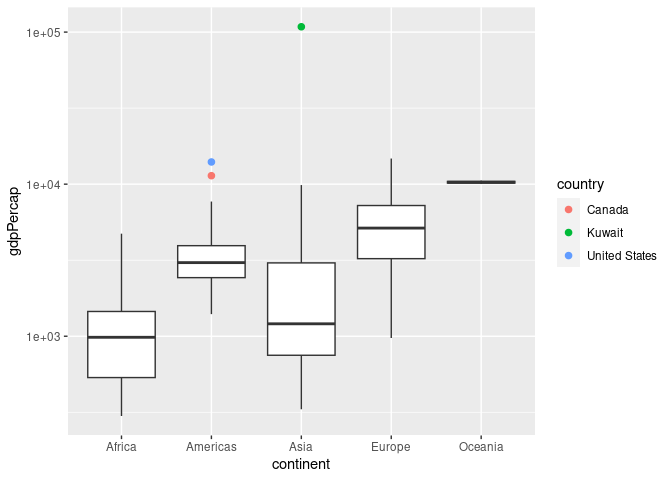
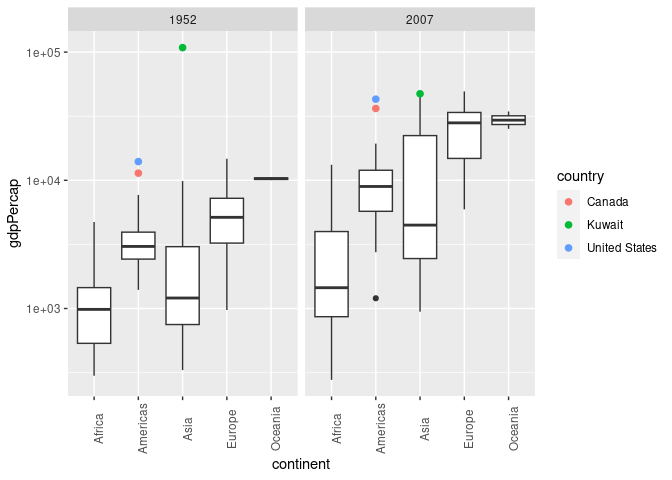
finished revisions of assignment 4

diff --git a/challenges/c04-gapminder-assignment.md b/challenges/c04-gapminder-assignment.md
@@ -211,10 +211,10 @@ gapminder %>%
 
 - The dataset states that the median GDPs for each continent go in the
   following order: Africa, Asia, the Americas, Europe, and Oceania.
-- Because we used a boxplot, we can see (roughly) the amount of
-  variation in these datasets: Asia seems to have GDPs that span the
-  widest range, including an outlier that is an order of magnitude ahead
-  of most other continents
+- Because we used a boxplot, we can see the amount of variation in these
+  datasets: Asia seems to have GDPs that span the widest range,
+  including an outlier that is an order of magnitude ahead of most other
+  continents
 - Oceania has barely any variation at all in its data, indicating either
   very homogenous or very little data.
 
@@ -310,23 +310,38 @@ variables; think about using different aesthetics or facets.
 
 ``` r
 ## TASK: Create a visual of gdpPercap vs continent
+
 gapminder %>%
-  filter(year == year_min) %>%
-  ggplot(aes(x = continent, y = gdpPercap))+
-  geom_boxplot() + 
+  filter(year == year_min | year == year_max) %>%
+  ggplot(aes(x = continent, y = gdpPercap)) +
+  geom_boxplot() +
   geom_point(
     data = . %>% filter(country %in% c("Kuwait", "United States", "Canada")),
     mapping = aes(color = country),
     size = 2
-  ) + 
-  scale_y_log10()
+  ) +
+  scale_y_log10() +
+  facet_wrap(~ year, nrow = 1) + 
+  theme(axis.text.x = element_text(angle = 90))
 ```
 
 ![](c04-gapminder-assignment_files/figure-gfm/q4-task-1.png)<!-- -->
 
 **Observations**:
 
-- Write your observations here
+- We can see here that the GDP per capita of the world as a whole has
+  appeared to gone up; every line’s median is higher than where it was
+  before.
+
+- Kuwait used to be really far ahead of the rest of Asia in terms of
+  GDP, but is now in a significantly more reasonable place.
+
+- The United States and Canada have both increased their GDP per capita!
+
+- Africa is still trailing the other continents in terms of median GDP
+  per capita, though the variation has increased since 1952 (indicating
+  that there are improvements disproportionally occurring in some places
+  of Africa)
 
 # Your Own EDA
 
@@ -364,9 +379,22 @@ gapminder %>%
 
 ``` r
 ## TASK: Your second graph
+# gapminder %>%
+#   ggplot(aes(x = gdpPercap, y = lifeExp, color = year))+
+#   geom_point() 
+df_gapminder <- gapminder
+
+
 gapminder %>%
-  ggplot(aes(x = gdpPercap, y = lifeExp, color = year))+
-  geom_point() 
+  mutate(year_interval = cut(year, breaks = seq(1952, 2007, by = 5))) %>%
+  pivot_longer(cols = c(lifeExp, gdpPercap), names_to = "variable", values_to = "value") %>%
+  drop_na() %>%
+  ggplot(aes(x = year_interval, y = value)) +
+  geom_boxplot() +
+  facet_wrap(~variable, scales = "free_y") +
+  ylab("Life Expectancy / GDP per capita") +
+  xlab("Year interval") + 
+  theme(axis.text.x= element_text(angle = 90))
 ```
 
 ![](c04-gapminder-assignment_files/figure-gfm/q5-task2-1.png)<!-- -->
